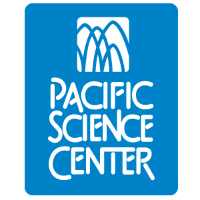
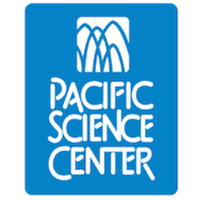
resized images and fixed image links

diff --git a/html/index.html b/html/index.html
@@ -31,26 +31,18 @@
       </form>
     </aside>
     </section>
-    <section>
-    <div class="edu">
-        <a href="https://spaceplace.nasa.gov/">
+    <section id="image-section">
+        <a href="https://spaceplace.nasa.gov/" class="edu">
         <img src="../assets/nasa_spaceplace.png"/>
         </a>
-      </div>
-      <div class="edu">
-        <a href="http://www.spacex.com/">
+        <a href="http://www.spacex.com/" class="edu">
           <img src="../assets/spacex3.jpg"/>
         </a>
-      </div>
-      <div class="edu">
-        <a href="https://www.pacificsciencecenter.org/">
+        <a href="https://www.pacificsciencecenter.org/" class="edu">
           <img src="../assets/pacific_science.png"/>
         </a>
-      </div>
-      <div class="edu">
         <a href="https://airandspace.si.edu/">
-          <img src="../assets/smithsoniam air_space.png"/></a>
-      </div>
+          <img src="../assets/smithsoniam air_space.png" class="edu"/></a>
     </section>
   <script type="text/javascript" src="../js/app.js"></script>
   </body>

diff --git a/css/style.css b/css/style.css
@@ -6,7 +6,3 @@ footer{
   width: 400px;
   height: 200px;
 }
-.edu{
-  width: 100px;
-  height: 100px;
-}
